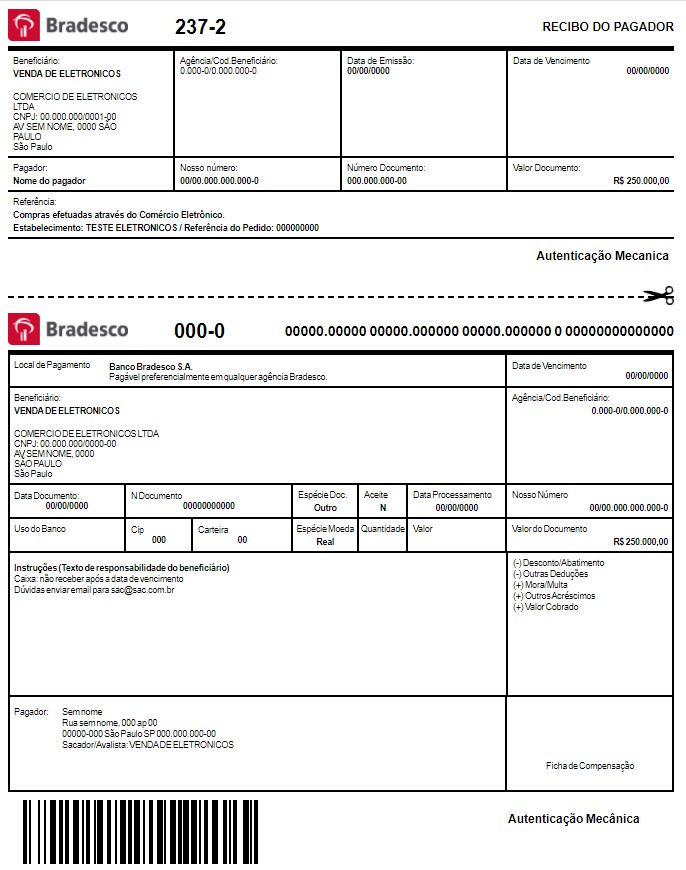
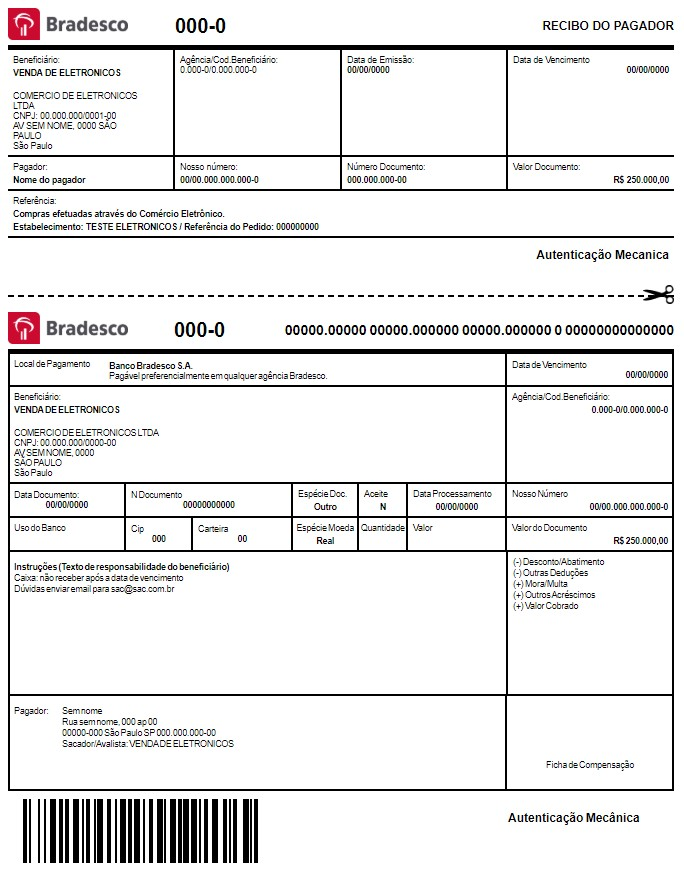
fix screenshot

Changed region(s): [[0.0, 0.0, 1.0, 0.9931]]

diff --git a/boleto.html b/boleto.html
@@ -135,7 +135,7 @@ body{
   <table class="table" border="0" cellspacing="0" cellpadding="0">
   <tr>
     <td width-25 ><img class="logo" src="https://wikioso.org/wp-content/uploads/2013/06/logo-bradesco-.png"></td>
-    <td width-25  id="header-primary"> 237-2</td>
+    <td width-25  id="header-primary"> 000-0</td>
     <td text-right width-50 class="header-secondary"> RECIBO DO PAGADOR</td>
   </tr>
 </table>
